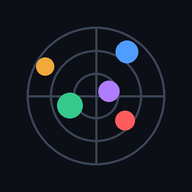
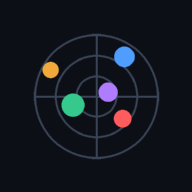
fix: アイコンの目的を「any」から「any maskable」に変更し、アプリバージョンを更新

Changed region(s): [[0.125, 0.125, 0.875, 0.875]]

diff --git a/sw.js b/sw.js
@@ -5,7 +5,7 @@
 // 版数 'yyyy-mm-dd.n'（更新日 ＋ 同日内の連番。日付が変わったら 1 に戻す）。
 // アプリを更新したら必ず改める（この値が変わることで新SWのインストールが走る）。
 // 設定タブの「アプリのバージョン」はこの値をそのまま表示する（js/settings-ui.js）。
-const APP_VERSION = '2026-08-08.2';
+const APP_VERSION = '2026-09-22.1';
 // キャッシュ名は接頭辞つき（activate の掃除で他のキャッシュと区別するため）
 const SHELL_CACHE = `gnss-scope-shell-${APP_VERSION}`;
 const TILE_CACHE = 'gsi-tiles';
